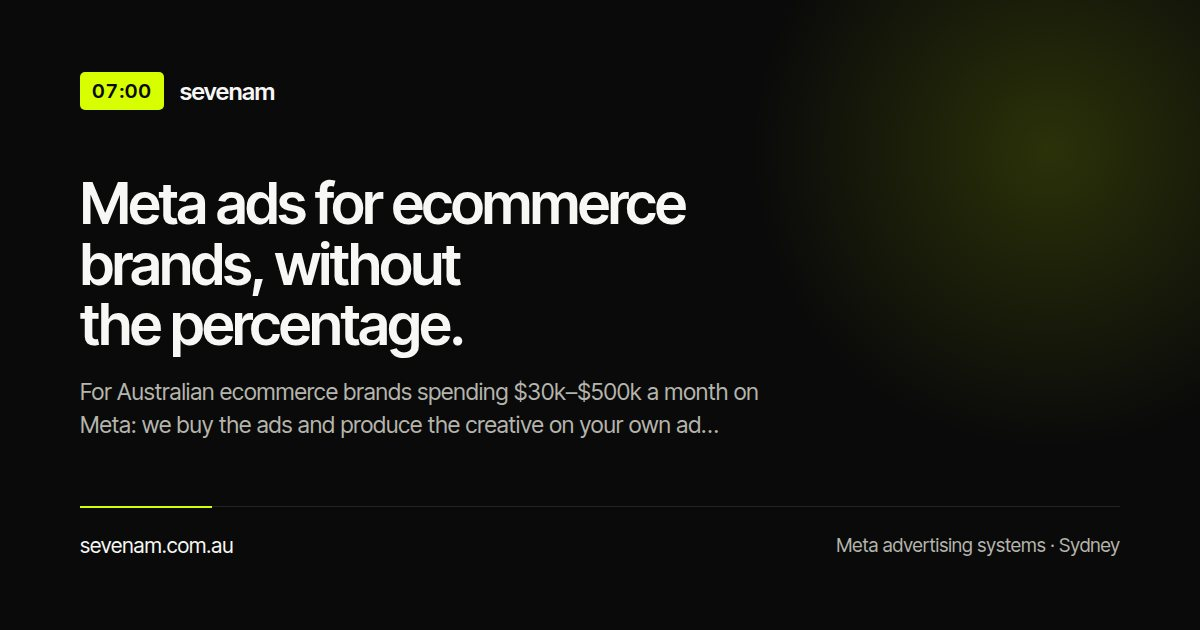
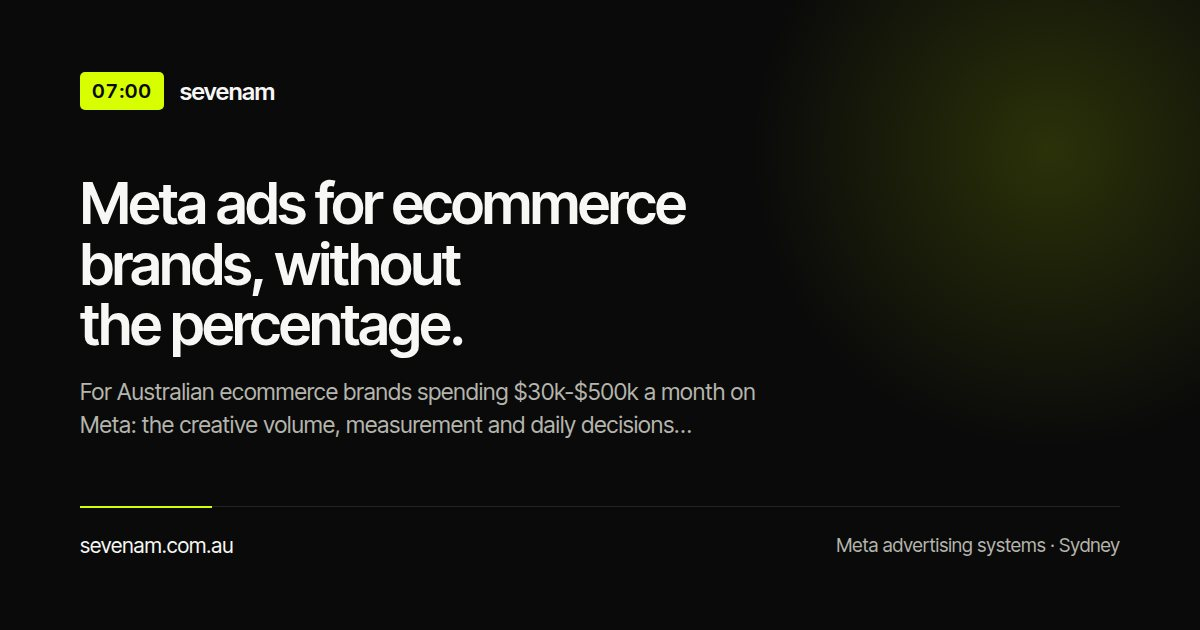
Bring meta descriptions inside the snippet limit
Bing's URL inspection flagged the homepage description as an error. It
was 270 characters against a limit of about 160, so the snippet was being
cut mid-sentence — and fourteen pages were over 180, including every
page anyone currently lands on.

Rewritten to 144-158 characters each, keeping the qualifier and the
argument and dropping the third clause that was never being shown.
Social cards rebuilt, since they are generated from the description.

Two fixes to my own work while checking: the Sydney description I wrote
said "no percentage of spend", and the ecommerce-marketing-agency page
from yesterday said the same. Both are the vow phrasing that is not
supposed to appear anywhere, reintroduced by me in the same session I
removed three other instances.

Changed region(s): [[0.1233, 0.6635, 0.5858, 0.6937], [0.4625, 0.6032, 0.6475, 0.6333]]

diff --git a/about.html b/about.html
@@ -53,7 +53,7 @@
 <style>html,body{height:100%;margin:0}#dc-root,#dc-root>.sc-host{height:100%}</style>
 <script type="application/ld+json">{"@context":"https://schema.org","@graph":[{"@type":"Organization","@id":"https://sevenam.com.au/#org","name":"Sevenam","url":"https://sevenam.com.au","description":"Sevenam is a growth systems and technology company that installs Meta advertising systems on businesses' own ad accounts and runs the technology that operates them.","founder":{"@type":"Person","name":"Josh Peacock","jobTitle":"Founder","sameAs":["https://www.linkedin.com/in/josh-peacock-b36b6b20/"]},"areaServed":"AU","address":{"@type":"PostalAddress","addressLocality":"Sydney","addressRegion":"NSW","addressCountry":"AU"}},{"@type":"AboutPage","url":"https://sevenam.com.au/about","name":"About Sevenam","isPartOf":{"@id":"https://sevenam.com.au/#org"}}]}</script>
 <title>About Sevenam — Who Builds the System | Sevenam</title>
-<meta name="description" content="Sevenam is a growth systems and technology company in Sydney, run by Josh, who has spent fifteen years inside Australian ecommerce Meta ad accounts. What we build, what we refuse to sell, and why every price is published.">
+<meta name="description" content="Sevenam is a growth systems company in Sydney, run by Josh, who has spent fifteen years inside Australian ecommerce Meta ad accounts. What we build and why.">
 <link rel="canonical" href="https://sevenam.com.au/about">
 <meta name="robots" content="index,follow">
 <meta property="og:title" content="About Sevenam">

diff --git a/ecommerce-marketing-agency.html b/ecommerce-marketing-agency.html
@@ -157,7 +157,7 @@
       <p style="margin: 28px 0px 0px; max-width: 62ch; font-size: 17px; line-height: 1.7; color: rgb(181, 181, 173);">When acquisition is the constraint, the work is specific: make the measurement true, build the account properly, and then produce enough creative that the models have something to learn from. That is a channel job done to depth, not a marketing department rented by the month.</p>
       <div style="margin-top: 36px; display: flex; flex-direction: column; max-width: 840px;">
         <div style="border-top: 1px solid rgb(35, 35, 32); padding: 20px 0px; font-size: 17px; line-height: 1.6;">Meta acquisition and the creative that feeds it. That is the scope.</div>
-        <div style="border-top: 1px solid rgb(35, 35, 32); padding: 20px 0px; font-size: 17px; line-height: 1.6;">No email, no SEO, no content retainer, no percentage of spend.</div>
+        <div style="border-top: 1px solid rgb(35, 35, 32); padding: 20px 0px; font-size: 17px; line-height: 1.6;">No email, no SEO, no content retainer, and a fee priced to the work.</div>
         <div style="border-top: 1px solid rgb(35, 35, 32); padding: 20px 0px; font-size: 17px; line-height: 1.6;">We say when your constraint is somewhere we do not work.</div>
         <div style="border-top: 1px solid rgb(35, 35, 32); border-bottom: 1px solid rgb(35, 35, 32); padding: 20px 0px; font-size: 17px; line-height: 1.6;">Your ad account, pixel and creative library, from hour one.</div>
       </div>

diff --git a/ai-marketing-agency.html b/ai-marketing-agency.html
@@ -52,7 +52,7 @@
 <style>x-dc{display:none!important}</style>
 <style>html,body{height:100%;margin:0}#dc-root,#dc-root>.sc-host{height:100%}</style>
 <title>An AI Marketing Agency? Here's Exactly Where We Use AI | Sevenam</title>
-<meta name="description" content="Most 'AI marketing agency' claims are a wrapper on the same retainer. Here is specifically where Sevenam uses AI — reading accounts first thing each morning, drafting decisions, producing creative volume — and where we deliberately don't.">
+<meta name="description" content="Most &#x27;AI marketing agency&#x27; claims are a wrapper on the same retainer. Here is exactly where we use AI, where we do not, and what it changes for your account.">
 <link rel="canonical" href="https://sevenam.com.au/ai-marketing-agency">
 <meta property="og:title" content="An AI Marketing Agency? Here's Exactly Where We Use AI | Sevenam">
 <meta property="og:description" content="Most 'AI marketing agency' claims are a wrapper on the same retainer. Here is specifically where Sevenam uses AI — reading accounts first thing each morning, drafting decisions, producing creative volume — and where we deliberately don't.">

diff --git a/facebook-ads-agency.html b/facebook-ads-agency.html
@@ -52,7 +52,7 @@
 <style>x-dc{display:none!important}</style>
 <style>html,body{height:100%;margin:0}#dc-root,#dc-root>.sc-host{height:100%}</style>
 <title>Facebook Ads Agency (Australia) — Or a System You Own | Sevenam</title>
-<meta name="description" content="Looking for a Facebook ads agency in Australia? Here's what an agency does now that Meta automated the targeting — and why installing a system on your own ad account is usually the better buy. Fixed prices, priced to the work not your budget.">
+<meta name="description" content="What a Facebook ads agency actually does in 2026, what it should cost, and how to compare one against a system installed on your own ad account.">
 <link rel="canonical" href="https://sevenam.com.au/facebook-ads-agency">
 <meta property="og:title" content="Facebook Ads Agency (Australia) — Or a System You Own | Sevenam">
 <meta property="og:description" content="Looking for a Facebook ads agency in Australia? Here's what an agency does now that Meta automated the targeting — and why installing a system on your own ad account is usually the better buy. Fixed prices, priced to the work not your budget.">

diff --git a/facebook-ads-sydney.html b/facebook-ads-sydney.html
@@ -52,7 +52,7 @@
 <style>x-dc{display:none!important}</style>
 <style>html,body{height:100%;margin:0}#dc-root,#dc-root>.sc-host{height:100%}</style>
 <title>Facebook Ads Sydney — A System You Own, Not a Retainer | Sevenam</title>
-<meta name="description" content="Facebook and Instagram advertising for Sydney businesses, installed as a system on your own ad account. Four weeks to set up, then a written set of decisions every morning at 7am. Fixed fee, priced to the work not your budget.">
+<meta name="description" content="Facebook and Instagram advertising for Sydney businesses, installed on your own ad account for a fixed fee priced to the work rather than your budget.">
 <link rel="canonical" href="https://sevenam.com.au/facebook-ads-sydney">
 <meta property="og:title" content="Facebook Ads Sydney — A System You Own, Not a Retainer | Sevenam">
 <meta property="og:description" content="Facebook and Instagram advertising for Sydney businesses, installed as a system on your own ad account. Four weeks to set up, then a written set of decisions every morning at 7am. Fixed fee, priced to the work not your budget.">

diff --git a/agency-fee.html b/agency-fee.html
@@ -52,7 +52,7 @@
 <style>x-dc{display:none!important}</style>
 <style>html,body{height:100%;margin:0}#dc-root,#dc-root>.sc-host{height:100%}</style>
 <title>Agency Fee Calculator — What A Percentage Of Spend Really Costs | Sevenam</title>
-<meta name="description" content="Free calculator: enter your monthly ad spend and your agency's percentage or flat retainer, and see the fee in dollars a month, a year, and over three years — plus what happens when you double your budget.">
+<meta name="description" content="Free calculator: enter your monthly ad spend and your agency&#x27;s percentage to see what the fee costs you in dollars this year, and the next time you scale.">
 <link rel="canonical" href="https://sevenam.com.au/agency-fee">
 <meta property="og:title" content="Agency Fee Calculator — What A Percentage Of Spend Really Costs | Sevenam">
 <meta property="og:description" content="Free calculator: enter your monthly ad spend and your agency's percentage or flat retainer, and see the fee in dollars a month, a year, and over three years — plus what happens when you double your budget.">

diff --git a/index.html b/index.html
@@ -52,7 +52,7 @@
 <style>x-dc{display:none!important}</style>
 <style>html,body{height:100%;margin:0}#dc-root,#dc-root>.sc-host{height:100%}</style>
 <title>Meta Ads for Ecommerce Brands — Media Buying + Creative | Sevenam</title>
-<meta name="description" content="We buy your Meta ads and produce the creative that feeds them, for Australian ecommerce brands spending $30k–$500k a month. AI reads the account first thing each morning, a written call lands at 7am. Fixed fee, on your own ad account, priced to the work not your budget.">
+<meta name="description" content="Meta ads and the creative that feeds them, for Australian ecommerce brands spending $30k-$500k a month. A written decision at 7am, on your own ad account.">
 <link rel="canonical" href="https://sevenam.com.au/">
 <meta property="og:title" content="Meta Ads for Ecommerce Brands — Media Buying + Creative | Sevenam">
 <meta property="og:description" content="Media buying, creative production and a written call at 7am — on your own ad account, for a fixed fee. Built for Australian ecommerce brands.">

diff --git a/ecommerce-facebook-ads-agency.html b/ecommerce-facebook-ads-agency.html
@@ -52,7 +52,7 @@
 <style>x-dc{display:none!important}</style>
 <style>html,body{height:100%;margin:0}#dc-root,#dc-root>.sc-host{height:100%}</style>
 <title>Ecommerce Facebook Ads Agency Alternative in Australia | Sevenam</title>
-<meta name="description" content="For Australian ecommerce brands spending $30k–$500k a month on Meta: we buy the ads and produce the creative on your own ad account, for a fixed fee instead of a percentage of media spend.">
+<meta name="description" content="For Australian ecommerce brands spending $30k-$500k a month on Meta: the creative volume, measurement and daily decisions the channel actually needs now.">
 <link rel="canonical" href="https://sevenam.com.au/ecommerce-facebook-ads-agency">
 <meta property="og:title" content="Ecommerce Facebook Ads Agency Alternative in Australia | Sevenam">
 <meta property="og:description" content="For Australian ecommerce brands spending $30k–$500k a month on Meta: we buy the ads and produce the creative on your own ad account, for a fixed fee instead of a percentage of media spend.">

diff --git a/check.html b/check.html
@@ -52,7 +52,7 @@
 <style>x-dc{display:none!important}</style>
 <style>html,body{height:100%;margin:0}#dc-root,#dc-root>.sc-host{height:100%}</style>
 <title>Account Check — Five Days, A Straight Read On Your Meta Ads | Sevenam</title>
-<meta name="description" content="A recorded five-day walkthrough of your own Meta ad account: what's broken, what it's costing, what to fix first, and what your agency fee really works out to. Credited against the setup fee.">
+<meta name="description" content="A recorded five-day walkthrough of your own Meta ad account: what is wrong, what it is costing you, and what to fix first. Yours to act on with or without us.">
 <link rel="canonical" href="https://sevenam.com.au/check">
 <meta property="og:title" content="Account Check — Five Days, A Straight Read On Your Meta Ads | Sevenam">
 <meta property="og:description" content="A recorded five-day walkthrough of your own Meta ad account: what's broken, what it's costing, what to fix first, and what your agency fee really works out to. Credited against the setup fee.">

diff --git a/glossary.html b/glossary.html
@@ -52,7 +52,7 @@
 <style>x-dc{display:none!important}</style>
 <style>html,body{height:100%;margin:0}#dc-root,#dc-root>.sc-host{height:100%}</style>
 <title>Meta Ads in Plain English — A Glossary for Australian Advertisers | Sevenam</title>
-<meta name="description" content="Every confusing Meta advertising term in one plain sentence: Advantage+, Andromeda, CAPI, attribution windows, ROAS, MER, learning phase, and the rest. No jargon, no platform mystique.">
+<meta name="description" content="Every confusing Meta advertising term in one plain sentence: Advantage+, CAPI, ROAS, attribution windows and the rest. Written for Australian advertisers.">
 <link rel="canonical" href="https://sevenam.com.au/glossary">
 <meta property="og:title" content="Meta Ads in Plain English — A Glossary for Australian Advertisers | Sevenam">
 <meta property="og:description" content="Every confusing Meta advertising term in one plain sentence: Advantage+, Andromeda, CAPI, attribution windows, ROAS, MER, learning phase, and the rest. No jargon, no platform mystique.">

diff --git a/system.html b/system.html
@@ -52,7 +52,7 @@
 <style>x-dc{display:none!important}</style>
 <style>html,body{height:100%;margin:0}#dc-root,#dc-root>.sc-host{height:100%}</style>
 <title>How It Works — Daily Meta Ads Decisions At 7am | Sevenam</title>
-<meta name="description" content="Your account is read first thing each morning through the Meta API, analysed against thresholds written for it, and by 7am you have a written brief: what to change today, what to leave alone, and why.">
+<meta name="description" content="Your account is read overnight through the Meta API and the day&#x27;s decisions arrive at 7am, in writing, with the numbers behind each one. You approve them.">
 <link rel="canonical" href="https://sevenam.com.au/system">
 <meta property="og:title" content="How It Works — Daily Meta Ads Decisions At 7am | Sevenam">
 <meta property="og:description" content="Your account is read first thing each morning through the Meta API, analysed against thresholds written for it, and by 7am you have a written brief: what to change today, what to leave alone, and why.">

diff --git a/what-are-meta-ads.html b/what-are-meta-ads.html
@@ -52,7 +52,7 @@
 <style>x-dc{display:none!important}</style>
 <style>html,body{height:100%;margin:0}#dc-root,#dc-root>.sc-host{height:100%}</style>
 <title>What Are Meta Ads? A Plain-English Explanation (2026) | Sevenam</title>
-<meta name="description" content="Meta ads explained without jargon: what they are, how the auction and delivery models work, what campaigns, ad sets and ads do, what things cost, and how to tell whether yours are working.">
+<meta name="description" content="Meta ads explained without jargon: what they are, how the auction works, where they appear, and what they cost in Australia. Written for people starting out.">
 <link rel="canonical" href="https://sevenam.com.au/what-are-meta-ads">
 <meta property="og:title" content="What Are Meta Ads? A Plain-English Explanation (2026) | Sevenam">
 <meta property="og:description" content="Meta ads explained without jargon: what they are, how the auction and delivery models work, what campaigns, ad sets and ads do, what things cost, and how to tell whether yours are working.">
